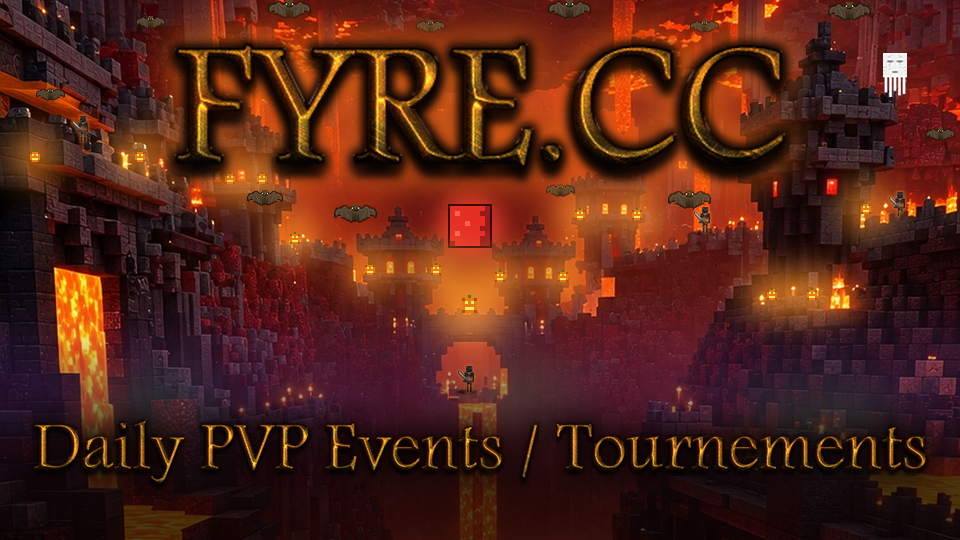
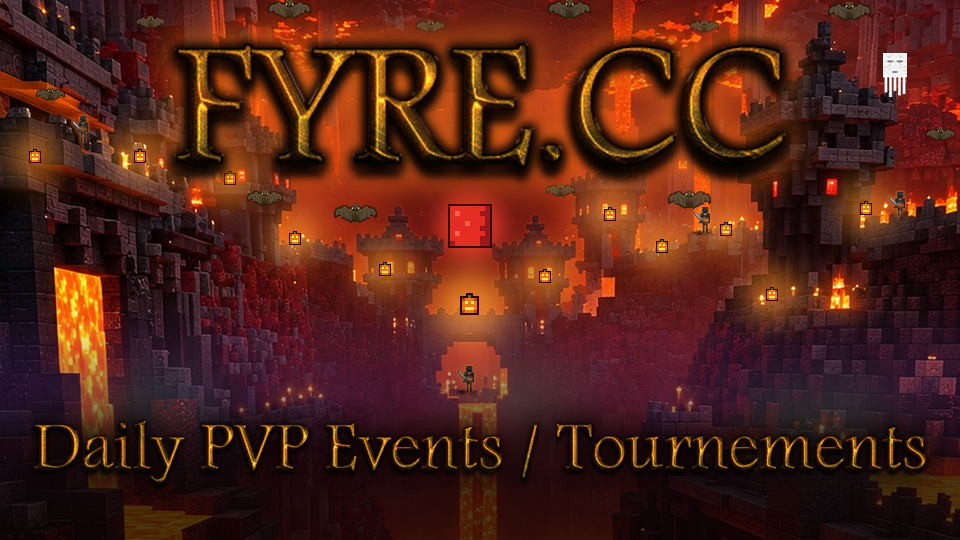
Spread the pumpkins evenly and give them the moon's thin outline
Twelve jack-o'-lanterns, one every 40-100px from far left to far right
on measured ledges and wall tops (the crowded centre cluster is
thinned out; the right-hand wall gets two), each with a thin dark
crimson outline matching the moon.

Claude-Session: https://claude.ai/code/session_01LPehDgsXCVDFiYqWq7LdDj

Changed region(s): [[0.3438, 0.3556, 0.8125, 0.5926], [0.8125, 0.4741, 0.875, 0.6222], [0.25, 0.2667, 0.3125, 0.4148]]

diff --git a/branding/fyre/halloween.py b/branding/fyre/halloween.py
@@ -17,9 +17,15 @@ COLORS = {
     'g': (70,120,30), 'O': (232,120,18), 'o': (176,78,10), 'Y': (255,232,96),
 }
 
-def sprite(d, rows, cx, cy, block):
+def sprite(d, rows, cx, cy, block, outline=0, outline_color=(44,4,8)):
     w, h = len(rows[0]) * block, len(rows) * block
     x0, y0 = round(cx - w/2), round(cy - h/2)
+    if outline:  # dilate every filled cell by `outline` px in a dark colour, then draw the fills over it
+        for j, row in enumerate(rows):
+            for i, ch in enumerate(row):
+                if ch in COLORS:
+                    d.rectangle([x0 + i*block - outline, y0 + j*block - outline,
+                                 x0 + (i+1)*block - 1 + outline, y0 + (j+1)*block - 1 + outline], outline_color)
     for j, row in enumerate(rows):
         for i, ch in enumerate(row):
             if ch in COLORS:
@@ -120,20 +126,21 @@ def scene(base):
     # Surface heights were read off fyre-background.webp at --bg-top 0.2.
     lanterns = [
         (35, 162, 2), (140, 162, 2),           # long ledge on the far-left castle
-        (230, 184, 2), (262, 184, 2),          # ledge under the left tower's windows
+        (230, 184, 2),                         # ledge under the left tower's windows
         (295, 244, 2),                         # left wall top
-        (370, 275, 2), (436, 275, 2),          # ledge under the left centre tower's windows
+        (385, 275, 2),                         # ledge under the left centre tower's windows
         (470, 313, 3),                         # gate wall, centre
-        (500, 282, 2), (563, 282, 2),          # ledge under the right centre tower's windows
-        (580, 220, 2), (637, 220, 2),          # ledge on the tall right tower
-        (772, 300, 2), (812, 300, 2),          # base of the big right tower
+        (545, 282, 2),                         # ledge under the right centre tower's windows
+        (610, 220, 2),                         # ledge on the tall right tower
+        (662, 252, 2), (726, 235, 2),          # right-hand wall top
+        (772, 300, 2),                         # base of the big right tower
         (866, 214, 2),                         # far right wall
     ]
     base = glow(base, [(x, y - 6, .45 * k) for x, y, k in lanterns], f)
     d = ImageDraw.Draw(base)
     for x, y, k in lanterns:
         b = round(k * f)
-        sprite(d, PUMPKIN, x*f, y*f - len(PUMPKIN) * b / 2, b)
+        sprite(d, PUMPKIN, x*f, y*f - len(PUMPKIN) * b / 2, b, outline=max(1, round(b / 2)))
 
     # mobs built from Minecraft's own textures (see mobs/README.md), spread across the width:
     # wither skeletons standing behind battlements or on a ledge, the ghast in the lava-lit top corner,
